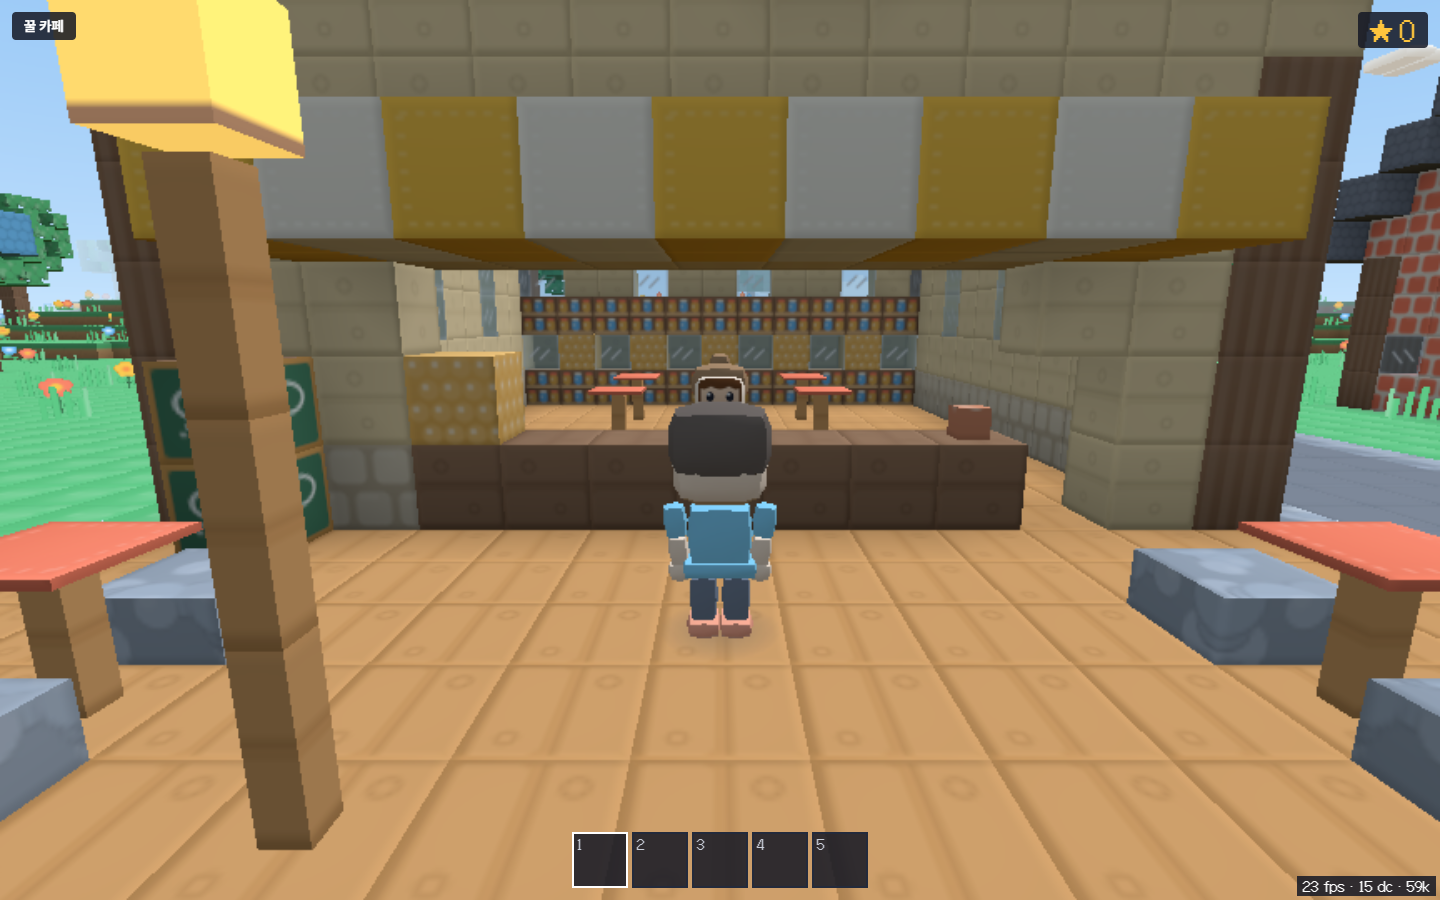
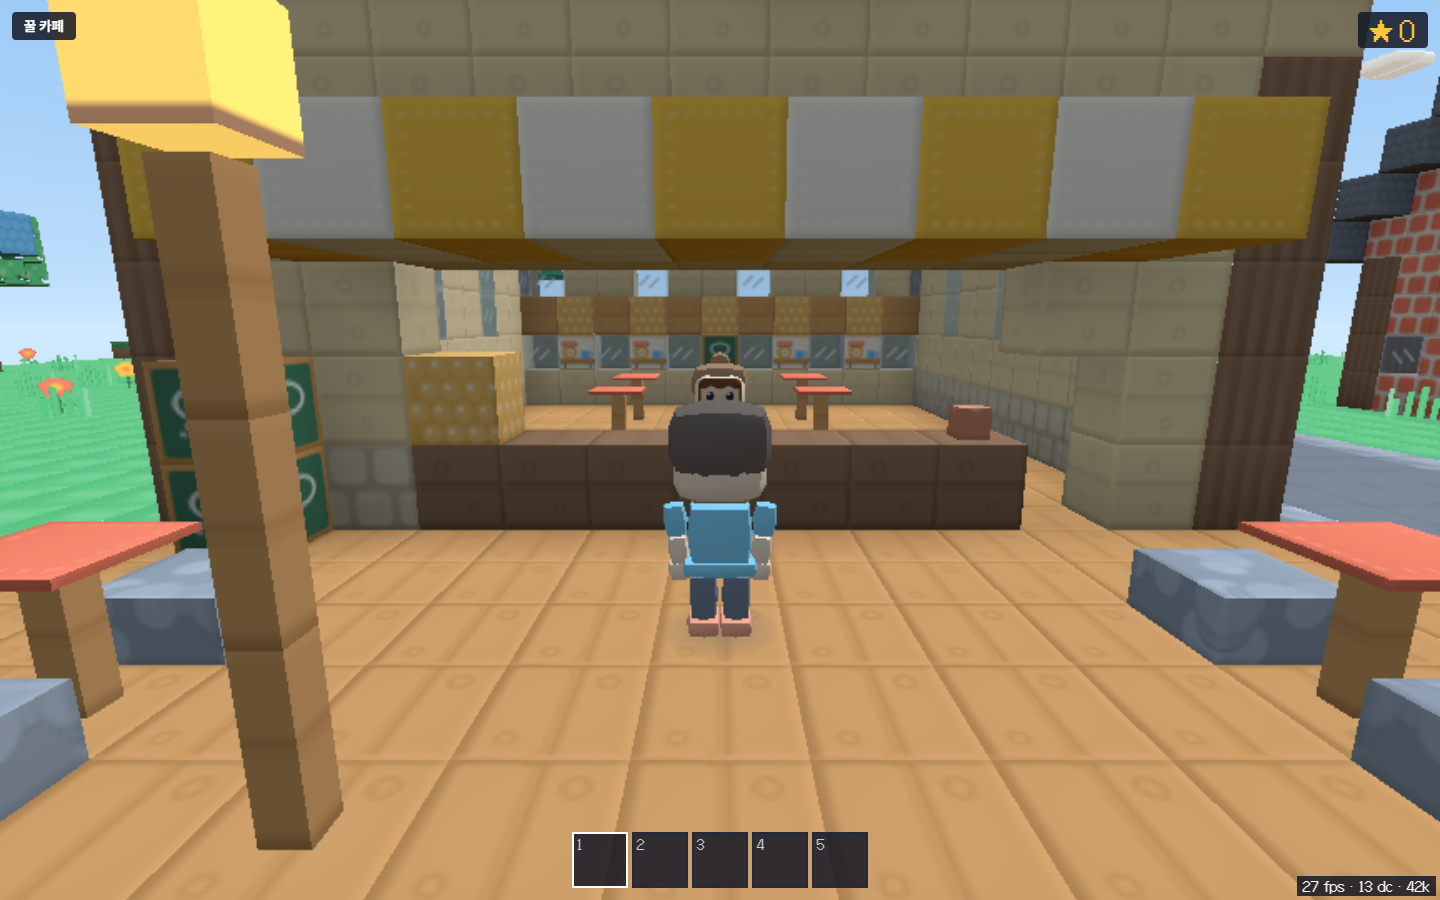
client: seat gate for solo play (play_allowed / seat from /v1/device/me), first-screen cap, docs/19
- identity: playAllowed + seat; only an explicit false stops solo play; last answer kept for offline starts
- App: seat stopped -> world stays walkable, NPC taps show a child notice (no price/payment words) with a
  '둘러보기만' chip; lessons (?code=) never call the device route, so they are never gated
- meshing before the first frame capped at 2 s (FIRST_SCREEN_CAP_MS)
- tests (identity seat cases), docs/19 5 (seat, first screen), shots, production start-up measurements

diff --git a/apps/client/src/world/identity.ts b/apps/client/src/world/identity.ts
@@ -7,10 +7,29 @@ import type { Level } from '@lcw/schemas';
 
 export const DEVICE_TOKEN_KEY = 'lcw.deviceToken';
 export const DEVICE_NICKNAME_KEY = 'lcw.deviceNickname';
+/** Last seat answer seen online ('1' = solo play stopped), so an offline start keeps the guardian's seat state. */
+export const DEVICE_PLAY_BLOCKED_KEY = 'lcw.devicePlayBlocked';
+
+export type SeatState = 'active' | 'expiring' | 'read_only' | 'archived' | 'refunded';
+export interface SeatInfo {
+  state: SeatState;
+  endsAt: number | null;
+}
 
 export type PlayerIdentity =
   | { kind: 'lesson'; code: string }
-  | { kind: 'child'; token: string; nickname: string; level: Level; voiceStore: boolean; offline: boolean }
+  | {
+      kind: 'child';
+      token: string;
+      nickname: string;
+      level: Level;
+      voiceStore: boolean;
+      offline: boolean;
+      /** docs/19 6장: false = the seat is read-only / archived / refunded, solo play stops (lessons never gated) */
+      playAllowed: boolean;
+      /** null = never had a seat (before sales): plays as before */
+      seat: SeatInfo | null;
+    }
   | { kind: 'guest' };
 
 export interface KeyStore {
@@ -22,6 +41,23 @@ export interface KeyStore {
 export type FetchLike = (input: string, init?: RequestInit) => Promise<Response>;
 
 const LEVELS: readonly string[] = ['L1', 'L2', 'L3', 'L4', 'L5', 'L6'];
+const SEAT_STATES: readonly string[] = ['active', 'expiring', 'read_only', 'archived', 'refunded'];
+
+function parseSeat(raw: unknown): SeatInfo | null {
+  if (!raw || typeof raw !== 'object') return null;
+  const r = raw as { state?: unknown; ends_at?: unknown };
+  if (typeof r.state !== 'string' || !SEAT_STATES.includes(r.state)) return null;
+  return { state: r.state as SeatState, endsAt: typeof r.ends_at === 'number' ? r.ends_at : null };
+}
+
+function write(store: KeyStore | null, key: string, value: string | null): void {
+  try {
+    if (value === null) store?.removeItem(key);
+    else store?.setItem(key, value);
+  } catch {
+    /* storage blocked */
+  }
+}
 
 function read(store: KeyStore | null, key: string): string | null {
   try {
@@ -44,12 +80,23 @@ export async function resolveIdentity(search: string, store: KeyStore | null, fe
   const token = read(store, DEVICE_TOKEN_KEY);
   if (!token || token.length < 32) return { kind: 'guest' };
   const cachedName = read(store, DEVICE_NICKNAME_KEY) ?? '';
+  const offlineChild = (): PlayerIdentity => ({
+    kind: 'child',
+    token,
+    nickname: cachedName,
+    level: 'L1',
+    voiceStore: false,
+    offline: true,
+    playAllowed: read(store, DEVICE_PLAY_BLOCKED_KEY) !== '1',
+    seat: null
+  });
   let res: Response;
   try {
     res = await fetchFn(`${base}/v1/device/me`, { headers: { authorization: `Bearer ${token}`, accept: 'application/json' }, cache: 'no-store' });
   } catch {
-    // Offline: keep playing as the linked child with the name saved at link time; the server checks again later.
-    return { kind: 'child', token, nickname: cachedName, level: 'L1', voiceStore: false, offline: true };
+    // Offline: keep playing as the linked child with the name saved at link time (and the last seat answer);
+    // the server checks again on every scored line.
+    return offlineChild();
   }
   if (res.status === 401) {
     // Revoked by the guardian or expired: the token can never work again, so the device starts as a guest.
@@ -60,8 +107,8 @@ export async function resolveIdentity(search: string, store: KeyStore | null, fe
     }
     return { kind: 'guest' };
   }
-  if (!res.ok) return { kind: 'child', token, nickname: cachedName, level: 'L1', voiceStore: false, offline: true };
-  const body = (await res.json().catch(() => ({}))) as { nickname?: unknown; level?: unknown; voice_store?: unknown };
+  if (!res.ok) return offlineChild();
+  const body = (await res.json().catch(() => ({}))) as { nickname?: unknown; level?: unknown; voice_store?: unknown; play_allowed?: unknown; seat?: unknown };
   const nickname = typeof body.nickname === 'string' ? body.nickname : cachedName;
   const level = (typeof body.level === 'string' && LEVELS.includes(body.level) ? body.level : 'L1') as Level;
   if (nickname && nickname !== cachedName) {
@@ -71,7 +118,10 @@ export async function resolveIdentity(search: string, store: KeyStore | null, fe
       /* storage blocked */
     }
   }
-  return { kind: 'child', token, nickname, level, voiceStore: body.voice_store === true, offline: false };
+  // Only an explicit false stops solo play (an older server without the field keeps playing).
+  const playAllowed = body.play_allowed !== false;
+  write(store, DEVICE_PLAY_BLOCKED_KEY, playAllowed ? null : '1');
+  return { kind: 'child', token, nickname, level, voiceStore: body.voice_store === true, offline: false, playAllowed, seat: parseSeat(body.seat) };
 }
 
 /** Browser storage, or null when the accessor itself throws (blocked site data). */

diff --git a/apps/client/src/world/__tests__/identity.test.ts b/apps/client/src/world/__tests__/identity.test.ts
@@ -1,5 +1,7 @@
 import { describe, expect, it } from 'vitest';
 import { DEVICE_NICKNAME_KEY, DEVICE_TOKEN_KEY, joinCodeFrom, resolveIdentity, type FetchLike, type KeyStore } from '../identity.js';
+import { DEVICE_PLAY_BLOCKED_KEY } from '../identity.js';
+import { soloPlayBlocked } from '../../App.js';
 import { soloPlayerOf } from '../../App.js';
 
 function memStore(init: Record<string, string> = {}): KeyStore & { data: Record<string, string> } {
@@ -44,7 +46,7 @@ describe('player identity (lesson code > linked device > guest)', () => {
     const seen: string[] = [];
     const store = memStore({ [DEVICE_TOKEN_KEY]: TOKEN });
     const id = await resolveIdentity('', store, fetchReturning(200, { nickname: 'Sora', level: 'L2', voice_store: true }, seen));
-    expect(id).toEqual({ kind: 'child', token: TOKEN, nickname: 'Sora', level: 'L2', voiceStore: true, offline: false });
+    expect(id).toEqual({ kind: 'child', token: TOKEN, nickname: 'Sora', level: 'L2', voiceStore: true, offline: false, playAllowed: true, seat: null });
     expect(seen).toEqual([`/v1/device/me Bearer ${TOKEN}`]);
     expect(store.data[DEVICE_NICKNAME_KEY]).toBe('Sora');
     expect(soloPlayerOf(id)).toEqual({ deviceToken: TOKEN, nickname: 'Sora', level: 'L2' });
@@ -87,5 +89,35 @@ describe('player identity (lesson code > linked device > guest)', () => {
   it('falls back to L1 for an unknown level', async () => {
     const id = await resolveIdentity('', memStore({ [DEVICE_TOKEN_KEY]: TOKEN }), fetchReturning(200, { nickname: 'Mo', level: 'L9' }));
     expect(id).toMatchObject({ kind: 'child', level: 'L1' });
+  });
+
+  it('reads the seat: play_allowed=false stops solo play and is remembered for an offline start (docs/19 6장)', async () => {
+    const store = memStore({ [DEVICE_TOKEN_KEY]: TOKEN });
+    const id = await resolveIdentity(
+      '',
+      store,
+      fetchReturning(200, { nickname: 'Sora', level: 'L1', voice_store: false, play_allowed: false, seat: { state: 'read_only', ends_at: 1790000000000 } })
+    );
+    expect(id).toMatchObject({ kind: 'child', playAllowed: false, seat: { state: 'read_only', endsAt: 1790000000000 } });
+    expect(soloPlayBlocked(id)).toBe(true);
+    expect(store.data[DEVICE_PLAY_BLOCKED_KEY]).toBe('1');
+    const off = await resolveIdentity('', store, async () => {
+      throw new TypeError('offline');
+    });
+    expect(off).toMatchObject({ kind: 'child', offline: true, playAllowed: false });
+    // seat renewed: the next online answer clears the flag
+    const back = await resolveIdentity('', store, fetchReturning(200, { nickname: 'Sora', play_allowed: true, seat: { state: 'active', ends_at: null } }));
+    expect(back).toMatchObject({ playAllowed: true, seat: { state: 'active', endsAt: null } });
+    expect(store.data[DEVICE_PLAY_BLOCKED_KEY]).toBeUndefined();
+  });
+
+  it('no seat yet (seat:null) and older servers without the field keep playing; lessons are never gated', async () => {
+    const a = await resolveIdentity('', memStore({ [DEVICE_TOKEN_KEY]: TOKEN }), fetchReturning(200, { nickname: 'Sora', play_allowed: true, seat: null }));
+    expect(soloPlayBlocked(a)).toBe(false);
+    const b = await resolveIdentity('', memStore({ [DEVICE_TOKEN_KEY]: TOKEN }), fetchReturning(200, { nickname: 'Sora' }));
+    expect(soloPlayBlocked(b)).toBe(false);
+    const lesson = await resolveIdentity('?code=123456', memStore({ [DEVICE_TOKEN_KEY]: TOKEN, [DEVICE_PLAY_BLOCKED_KEY]: '1' }), fetchReturning(200, {}));
+    expect(lesson).toEqual({ kind: 'lesson', code: '123456' });
+    expect(soloPlayBlocked(lesson)).toBe(false);
   });
 });

diff --git a/apps/client/src/App.tsx b/apps/client/src/App.tsx
@@ -9,6 +9,7 @@ import { canRunWorld, createWorld, SCENE_IDS, type NpcRef, type SceneId, type Wo
 import { WORLD_STRINGS as W } from './world/strings.js';
 import { browserStore, resolveIdentity, type PlayerIdentity } from './world/identity.js';
 import { FrameFloorWatch, TIER_SETTINGS } from './world/tiers.js';
+import { SeatPausedCard, SeatPausedChip } from './world/SeatNotice.js';
 import { COLOR_TOKENS as C, SHAPE_TOKENS as S, TYPOGRAPHY_TOKENS as T } from '@lcw/ui';
 
 /** What a dialog needs besides the NPC (docs/19 3장 DialogPanelProps without npc/onClose). */
@@ -53,6 +54,11 @@ export interface SoloPlayer {
   deviceToken?: string;
   nickname?: string;
   level?: Level;
+}
+
+/** docs/19 6장: a linked child whose seat stopped (play_allowed=false) may look around but not play solo. */
+export function soloPlayBlocked(id: PlayerIdentity | null): boolean {
+  return id?.kind === 'child' && !id.playAllowed;
 }
 
 export function soloPlayerOf(id: PlayerIdentity | null): SoloPlayer | undefined {
@@ -198,6 +204,8 @@ export function App(): React.ReactElement {
   const [failed, setFailed] = useState(false);
   const [identity, setIdentity] = useState<PlayerIdentity | null>(null);
   const [tooSlow, setTooSlow] = useState(false);
+  const [seatCard, setSeatCard] = useState(false);
+  const soloBlocked = soloPlayBlocked(identity);
   const lessonActive = useRef(false);
   const ok = useMemo(() => canRunWorld(), []);
 
@@ -275,14 +283,28 @@ export function App(): React.ReactElement {
     [world]
   );
 
+  // Seat stopped: say so once when the world opens (and again on every NPC tap), while the world stays walkable.
+  useEffect(() => {
+    if (soloBlocked && world) setSeatCard(true);
+  }, [soloBlocked, world]);
+  useEffect(() => {
+    if (!world || !seatCard) return;
+    world.setPaused(true);
+    return () => world.setPaused(false);
+  }, [world, seatCard]);
+
   // Solo play: tapping an NPC opens the dialog panel when no lesson is running.
   useEffect(() => {
     if (!world) return;
     return world.onNpcInteract((npc) => {
       if (lessonActive.current) return;
+      if (soloBlocked) {
+        setSeatCard(true);
+        return;
+      }
       if (dialogMod?.DialogPanel && dialogMod.createSoloSubmit) setSoloNpc(npc);
     });
-  }, [world, dialogMod]);
+  }, [world, dialogMod, soloBlocked]);
 
   const renderDialog = useCallback(
     (npc: NpcRef, cfg: DialogConfig): React.ReactNode => {
@@ -320,10 +342,12 @@ export function App(): React.ReactElement {
               }}
             />
           ) : null}
-          {Review && identity && identity.kind !== 'guest' ? (
+          {Review && identity && identity.kind !== 'guest' && !soloBlocked ? (
             <Review world={world} player={soloPlayerOf(identity)} hidden={lessonOn || soloNpc !== null} />
           ) : null}
-          {world && SoloPanel && soloNpc && soloSubmit ? (
+          {soloBlocked && world && !lessonOn ? <SeatPausedChip onOpen={() => setSeatCard(true)} /> : null}
+          {soloBlocked && world && !lessonOn && seatCard ? <SeatPausedCard onClose={() => setSeatCard(false)} /> : null}
+          {world && !soloBlocked && SoloPanel && soloNpc && soloSubmit ? (
             <DialogHost Panel={SoloPanel} world={world} npc={soloNpc} cfg={soloLevel ? { level: soloLevel } : {}} submit={soloSubmit} onClose={(last) => closeSolo(soloNpc, last)} />
           ) : null}
         </div>

diff --git a/apps/client/src/world/SeatNotice.tsx b/apps/client/src/world/SeatNotice.tsx
@@ -1,0 +1,89 @@
+/**
+ * Child-facing notice when the guardian's seat no longer allows solo play (docs/19 6장, play_allowed=false).
+ * The world stays walkable (look around only); talking to NPCs shows this card again. No price or payment words:
+ * this is a child screen, the guardian handles the seat in the family pages.
+ */
+import React from 'react';
+import { COLOR_TOKENS as C, SHAPE_TOKENS as S, TYPOGRAPHY_TOKENS as T } from '@lcw/ui';
+import { WORLD_STRINGS as W } from './strings.js';
+
+export function SeatPausedChip(props: { onOpen: () => void }): React.ReactElement {
+  return (
+    <button
+      type="button"
+      onClick={props.onOpen}
+      style={{
+        position: 'absolute',
+        top: 52,
+        left: 12,
+        pointerEvents: 'auto',
+        background: C['paper-0'],
+        color: C['ink-900'],
+        border: `2px solid ${C['ink-900']}`,
+        borderRadius: S.radiusButtonPx,
+        boxShadow: S.shadowDefault,
+        padding: '6px 12px',
+        minHeight: 44,
+        fontFamily: T.fonts.ui,
+        fontSize: T.scale.small.sizePx,
+        fontWeight: 700,
+        cursor: 'pointer'
+      }}
+    >
+      {W.seatPausedChip}
+    </button>
+  );
+}
+
+export function SeatPausedCard(props: { onClose: () => void }): React.ReactElement {
+  return (
+    <div
+      role="dialog"
+      aria-modal="true"
+      aria-labelledby="lcw-seat-title"
+      style={{ position: 'absolute', inset: 0, display: 'flex', alignItems: 'center', justifyContent: 'center', padding: 16, pointerEvents: 'auto', background: `${C['night-900']}66` }}
+    >
+      <div
+        style={{
+          maxWidth: 420,
+          width: '100%',
+          background: C['paper-50'],
+          border: `2px solid ${C['ink-900']}`,
+          borderRadius: S.radiusCardPx,
+          boxShadow: S.shadowDefault,
+          padding: 24,
+          display: 'flex',
+          flexDirection: 'column',
+          gap: 12,
+          fontFamily: T.fonts.ui,
+          color: C['ink-900']
+        }}
+      >
+        <h2 id="lcw-seat-title" style={{ margin: 0, fontSize: T.scale.h3.sizePx, lineHeight: `${T.scale.h3.lineHeightPx}px` }}>
+          {W.seatPausedTitle}
+        </h2>
+        <p style={{ margin: 0, color: C['ink-700'], fontSize: T.scale['body-l'].sizePx, lineHeight: `${T.scale['body-l'].lineHeightPx}px` }}>{W.seatPausedBody}</p>
+        <button
+          type="button"
+          autoFocus
+          onClick={props.onClose}
+          style={{
+            alignSelf: 'flex-end',
+            background: C['brand-d'],
+            color: C['paper-0'],
+            border: `2px solid ${C['ink-900']}`,
+            borderRadius: S.radiusButtonPx,
+            boxShadow: S.shadowDefault,
+            padding: '12px 20px',
+            minHeight: 48,
+            fontWeight: 800,
+            fontSize: T.scale['body-l'].sizePx,
+            cursor: 'pointer'
+          }}
+        >
+          {W.seatPausedOk}
+        </button>
+      </div>
+    </div>
+  );
+}

diff --git a/apps/client/src/world/engine.ts b/apps/client/src/world/engine.ts
@@ -62,6 +62,8 @@ function isTouchDevice(): boolean {
 
 /** Chunk rings meshed before the first frame (Chebyshev distance in chunks; 2 = an 80 m square). */
 export const FIRST_RING = 2;
+/** Longest the first-ring meshing may hold the loading card (the rest of the 3 s budget is town + first frame). */
+export const FIRST_SCREEN_CAP_MS = 2000;
 
 function wait(ms: number): Promise<void> {
   return new Promise((r) => setTimeout(r, ms));
@@ -251,7 +253,8 @@ export async function createWorldEngine(opts: CreateWorldOptions): Promise<World
   const meshUntilReady = async (): Promise<void> => {
     const t0 = performance.now();
     let total = -1;
-    while (performance.now() - t0 < 8000) {
+    // hard cap: on a busy or slow device show what is ready rather than keep the child on the loading card
+    while (performance.now() - t0 < FIRST_SCREEN_CAP_MS) {
       chunks.update(body.x, body.z, FIRST_RING, 24);
       const left = chunks.outstanding(body.x, body.z, FIRST_RING);
       if (total < 0) total = Math.max(1, left);

diff --git a/apps/client/src/world/strings.ts b/apps/client/src/world/strings.ts
@@ -20,6 +20,11 @@ export const WORLD_STRINGS = {
   hotbarEmpty: '빈 칸',
   lessonBadge: '수업 중',
   coinsLabel: '코인',
+  // Seat paused (docs/19 6장): no price or payment words on a child screen, only "tell your grown-up".
+  seatPausedTitle: '지금은 혼자 놀기가 쉬는 중이에요',
+  seatPausedBody: '마을은 둘러볼 수 있어요. 다시 같이 놀고 싶으면 보호자에게 말해 주세요.',
+  seatPausedOk: '알겠어요',
+  seatPausedChip: '둘러보기만',
   controlsDesktop: 'WASD 이동 · 마우스 끌기 시점 · Space 점프 · E 말 걸기',
   controlsTouch: '왼쪽을 끌어 이동 · 오른쪽을 끌어 둘러보기'
 } as const;

diff --git a/docs/19-client-contracts.md b/docs/19-client-contracts.md
@@ -124,6 +124,8 @@ export interface DialogPanelProps {
   - 장면 이동 중에 `setPaused(true)`가 와도(수업 단계 전환과 대화창 열림이 같은 틱) `goToScene`은 위치로 도착을 판정합니다. 도착하지 못했으면 페이드로 목표 장면에 옮기고 가장 가까운 NPC 로 대화 구도를 다시 잡습니다.
 - 누가 하나(`world/identity.ts`): ① 주소에 `?code=123456`(6자리)이 있으면 **수업**(`{kind:'lesson', code}`, 기기 확인 요청도 안 함) ② 아니면 `localStorage['lcw.deviceToken']`(보호자 `/link`가 저장)을 `GET /v1/device/me`(Bearer)로 확인해 **연결된 아이**(`{kind:'child', token, nickname, level, voiceStore, offline}`) — 401이면 토큰을 지우고 게스트, 네트워크 오류면 저장된 `lcw.deviceNickname`으로 오프라인 아이 ③ 둘 다 아니면 **게스트**. 저장소 접근이 막혀도 게스트로 시작합니다.
   - 앱은 `LessonLayer`에 `identity`를 넘기고, 혼자 대화에는 `createSoloSubmit(npc, { deviceToken, nickname, level })`(게스트면 둘째 인자 없음)와 `cfg.level`을 넘깁니다. 월드는 `setPlayerName?(nickname)`으로 머리 위 이름표를 달고 안내인이 이름으로 한 번 인사합니다.
+- 좌석(6장): `identity.ts`가 `play_allowed`·`seat`를 읽어 연결된 아이에 `playAllowed`·`seat`(`{state, endsAt}`|null)로 둡니다. `play_allowed`가 **명시적으로 false**일 때만 혼자 놀기를 멈춥니다(필드가 없는 옛 서버·`seat:null`은 그대로 놉니다). 마지막 온라인 답은 `lcw.devicePlayBlocked`('1')로 남겨 오프라인 시작에도 지킵니다. 멈추면 월드는 걸어 다니며 둘러보기만 되고, NPC 에게 말을 걸면 대화창 대신 안내 카드(`world/SeatNotice.tsx`: "지금은 혼자 놀기가 쉬는 중이에요 … 보호자에게 말해 주세요", 가격·결제 낱말 없음)가 뜹니다. 왼쪽 위 '둘러보기만' 칩으로 다시 열 수 있습니다. 수업(`?code=`)은 기기 확인 자체를 하지 않으므로 좌석과 상관없이 들어옵니다.
+- 첫 화면(3초 예산): `index.html`의 스플래시(토큰 색 큐브)가 첫 페인트에 바로 뜨고 글꼴은 첫 페인트를 막지 않습니다. 월드는 시작 지점 둘레 `FIRST_RING`(2청크) 안만 메시한 뒤(최대 `FIRST_SCREEN_CAP_MS` 2초) 보여 주고, 나머지 시야는 첫 프레임 뒤에 이어서 메시합니다. 단계별 시간은 `getStats().startup`(`town`·`atlas`·`characters`·`mesh`·`firstFrame`, createWorld 기준 ms)입니다.
 - 화면 주소: `/game/?scene=<SceneId>`(시작 장면), `?tier=low|mid|high`(사양 강제), `?fps=1`(fps 표시). 디버그·검증용으로 `window.__lcwWorld`에 핸들을 둡니다.
 - 검증: `node tools/world-shots.mjs <url> <out> [desktop|tablet|phone|flow]` — 헤드리스 Chrome(swiftshader)으로 장면 5개 × 3 화면 크기 스크린샷, fps, 콘솔 오류, 흐름(목표·말풍선·걷기·멈춤·별·아이템·빙의·눈·키보드·E 키)을 `report.json`에.
 
